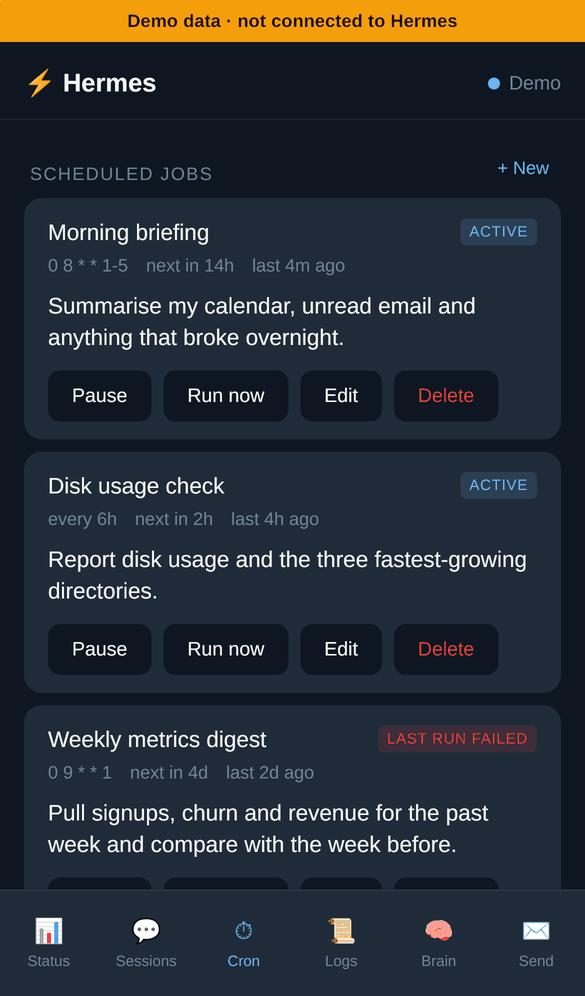
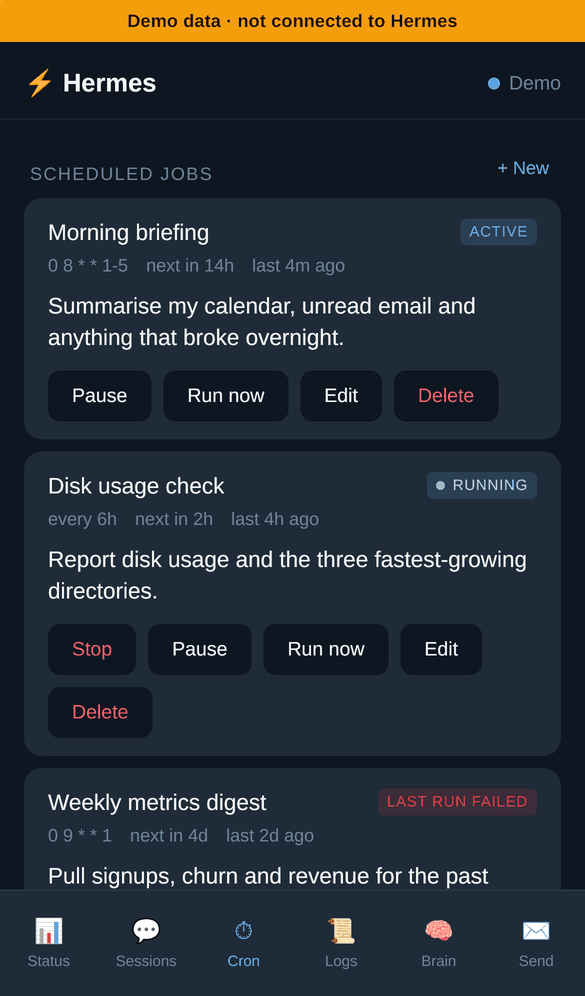
docs: prepare 0.4.0 (version, changelog, README, screenshots)
- Version 0.4.0 in plugin.yaml, manifest.json, web/package.json and
  CITATION.cff. requires_hermes stays >=0.22.4.
- CHANGELOG [0.4.0]: cron Stop and "Run missed jobs", English and
  Malay UI, readable API errors, /health auth_mode and capabilities,
  contract tests against real Hermes, and the new job form fix.
- README: Compatibility now says the plugin is tested by running Hermes
  v0.22.4 and v0.23.0 in CI; features list Stop, catch-up and languages.
- scripts/screenshots.py clicks tabs by position so labels can be in any
  language, adds a Malay Cron capture, and fails on page errors or
  horizontal overflow. Screenshots retaken.

diff --git a/scripts/screenshots.py b/scripts/screenshots.py
@@ -1,7 +1,9 @@
 # Capture README screenshots from the demo build (WebKit, iPhone 13).
 #   cd web && npm run build:demo && python3 -m http.server 3392 --bind 127.0.0.1 --directory ../dist-demo
 #   uv run --with playwright==1.58.0 --with pillow python scripts/screenshots.py http://127.0.0.1:3392 docs/screenshots
+# Optional third argument: comma-separated names to capture (e.g. "cron,usage").
 # Requests to anything other than the local server are blocked and reported.
+# Exits non-zero on page errors or horizontal overflow.
 import sys, io
 from pathlib import Path
 from playwright.sync_api import sync_playwright
@@ -10,9 +12,12 @@ from PIL import Image
 BASE = sys.argv[1]
 OUT = Path(sys.argv[2]); OUT.mkdir(parents=True, exist_ok=True)
 only = set(sys.argv[3].split(",")) if len(sys.argv) > 3 else None
-TABS = [("status", "Status"), ("sessions", "Sessions"), ("cron", "Cron"),
-        ("logs", "Logs"), ("brain", "Brain"), ("send", "Send")]
-external = []
+# Tabs in tab-bar order. Buttons are clicked by position, so the labels may be in any language.
+TABS = ["status", "sessions", "cron", "logs", "brain", "send"]
+# (theme, lang, tabs to capture, file suffix). The Malay pass shows one tab to document the translation.
+PASSES = [("light", "en", TABS + ["usage"], ""), ("dark", "en", TABS + ["usage"], ""),
+          ("light", "ms", ["cron"], "-ms")]
+external, problems = [], []
 
 
 def save(png, name):
@@ -23,9 +28,20 @@ def save(png, name):
     img.save(dest, optimize=True)
     print(dest.name, dest.stat().st_size)
 
+
+def open_tab(page, key):
+    page.locator(".tab-bar button").nth(TABS.index(key)).click()
+    page.wait_for_timeout(700)
+    if page.evaluate("document.documentElement.scrollWidth > document.documentElement.clientWidth"):
+        problems.append(f"horizontal overflow on {key}")
+
+
 with sync_playwright() as p:
     b = p.webkit.launch()
-    for theme in ("light", "dark"):
+    for theme, lang, shots, suffix in PASSES:
+        wanted = [s for s in shots if not only or s in only]
+        if not wanted:
+            continue
         ctx = b.new_context(**p.devices["iPhone 13"], color_scheme=theme)
         page = ctx.new_page()
         errors = []
@@ -37,22 +53,20 @@ with sync_playwright() as p:
             external.append(r.request.url)
             return r.abort()
         page.route("**/*", route)
-        page.goto(f"{BASE}/?theme={theme}", wait_until="networkidle")
+        page.goto(f"{BASE}/?theme={theme}&lang={lang}", wait_until="networkidle")
         page.wait_for_timeout(600)
-        for key, label in TABS:
-            if only and key not in only:
-                continue
-            page.locator(".tab-bar button", has_text=label).click()
-            page.wait_for_timeout(700)
-            save(page.screenshot(), f"{key}-{theme}.png")
-        if not only or "usage" in only:
-            page.locator(".tab-bar button", has_text="Status").click()
-            page.wait_for_timeout(700)
-            page.evaluate("document.querySelector('.section-title-row').scrollIntoView({block: 'start'}); window.scrollBy(0, -110)")
-            page.wait_for_timeout(500)
-            save(page.screenshot(), f"usage-{theme}.png")
-        if errors:
-            print("ERRORS", theme, errors)
+        for key in wanted:
+            if key == "usage":
+                open_tab(page, "status")
+                page.evaluate("document.querySelector('.section-title-row').scrollIntoView({block: 'start'}); window.scrollBy(0, -110)")
+                page.wait_for_timeout(500)
+            else:
+                open_tab(page, key)
+            save(page.screenshot(), f"{key}{suffix}-{theme}.png")
+        problems += [f"{theme}/{lang}: {e}" for e in errors]
         ctx.close()
     b.close()
 print("blocked external requests:", sorted(set(external)))
+if problems:
+    print("PROBLEMS", *problems, sep="\n  ")
+    sys.exit(1)

diff --git a/README.md b/README.md
@@ -17,17 +17,18 @@ It ships as a Hermes **dashboard plugin** (backend routes under `/api/plugins/te
   </tr>
 </table>
 
-<sub>Screenshots use the built-in <a href="#demo-mode">demo mode</a> (sample data, iPhone 13 in WebKit, Telegram-style day and night palettes). More in <a href="docs/screenshots/">docs/screenshots</a>.</sub>
+<sub>Screenshots use the built-in <a href="#demo-mode">demo mode</a> (sample data, iPhone 13 in WebKit, Telegram-style day and night palettes). More in <a href="docs/screenshots/">docs/screenshots</a>, including the <a href="docs/screenshots/cron-ms-light.png">Malay UI</a>.</sub>
 
 ## Features
 
 - **Status**: CPU, memory, disk, load and uptime; session and cron counts; token and cost totals for today, 7 days, 30 days or all time, with the most expensive sessions.
 - **Push alerts** (configured from the Status tab): a Telegram DM when a cron run fails, when `errors.log` gets new errors (throttled, off by default) or when the day's estimated spend crosses a threshold.
 - **Sessions**: recent sessions with source, message count, tokens and cost; open one to read its messages.
-- **Cron**: create, edit, pause, resume, run now and delete agent cron jobs. Failed last runs are flagged.
+- **Cron**: create, edit, pause, resume, run now and delete agent cron jobs. Failed last runs are flagged. On Hermes v0.23.0 or later, stop a job that is running and choose per job whether missed runs are caught up ("Run missed jobs").
 - **Logs**: tail `agent.log`, `errors.log` or `gateway.log`, filtered by level, with live refresh.
 - **Brain**: search installed skills and read `SKILL.md`, read the agent's `MEMORY.md` and `USER.md`.
 - **Post to bot chat**: have the bot post a message into your DM. See [limitations](#known-limitations): Hermes does not act on it.
+- **English and Malay.** The app uses your Telegram language when it is Malay and English otherwise; an EN | BM switch at the bottom of the Status tab overrides it. Adding a language is one JSON file in `web/src/i18n/`.
 - Follows your Telegram light or dark theme, uses Telegram haptics.
 
 ## How it works
@@ -70,14 +71,17 @@ This panel controls an AI agent, so the login path is strict. The full review, w
 
 ## Compatibility
 
-Checked against Hermes Agent commit [`81a5543`](https://github.com/NousResearch/hermes-agent/commit/81a55437f3f31a9f12a30c53b6c5d49d420898aa) (tag `v0.22.4+canary.20261022T070155Z`, 21 Oct 2026) **by reading its source**, not by running it. Verified there:
+**Tested by running Hermes v0.22.4 and v0.23.0 in CI.** For each release listed in [`compat/hermes-versions.json`](compat/hermes-versions.json), the `hermes-contract` job installs that Hermes, links the plugin into a temporary Hermes home with synthetic credentials, and calls `/health`, login, status, sessions, cron (including stop and catch-up) and logs through the real dashboard app (`tests/contract/`). The plugin declares `requires_hermes: ">=0.22.4"`.
+
+What the plugin uses from Hermes:
 
 - Dashboard plugins are discovered at `~/.hermes/plugins/<name>/dashboard/manifest.json`; the `api` file is imported and its `router` mounted at `/api/plugins/<name>/`.
 - User plugins' backends load only when the plugin name is in `plugins.enabled` (Hermes security change, see setup).
 - The session header is `X-Hermes-Session-Token`; `/api/*` is gated except for paths in `hermes_cli.web_server._PUBLIC_API_PATHS`.
-- Data sources the endpoints use: `hermes_state.SessionDB` (`list_sessions_rich`, `session_count`, `get_messages`), `cron.jobs` (`list_jobs`, `create_job`, `update_job`, `remove_job`, `pause_job`, `resume_job`, `trigger_job`), and `~/.hermes/logs/{agent,errors,gateway}.log`.
+- Data sources the endpoints use: `hermes_state.SessionDB` (`list_sessions_rich`, `session_count`, `get_messages`), `cron.jobs` (`list_jobs`, `create_job`, `update_job`, `remove_job`, `pause_job`, `resume_job`, `trigger_job`, and `cancel_job_run` when present), and `~/.hermes/logs/{agent,errors,gateway}.log`.
+- Optional features are detected by probing Hermes, not by version: `GET /api/plugins/telegram-app/health` lists them under `capabilities` (`cron_cancel`, `cron_catch_up`), and the app hides Stop and "Run missed jobs" when they are missing.
 
-Requirements and caveats from that check:
+Requirements and caveats:
 
 - The dashboard must run in its default **loopback token mode** (bound to `127.0.0.1`). If you set `dashboard.public_url` or bind publicly, Hermes switches to its cookie/OAuth gate and this plugin's token login will not work.
 - `plugins.isolation: host` (plugins in a separate process) is not supported; the default `in_process` is.
@@ -172,7 +176,7 @@ cd web
 npm ci
 npm run build:demo        # writes ../dist-demo/ (never ../dist/)
 python3 -m http.server 3392 --bind 127.0.0.1 --directory ../dist-demo
-# open http://127.0.0.1:3392/?theme=light  (or ?theme=dark)
+# open http://127.0.0.1:3392/?theme=light  (or ?theme=dark; add &lang=ms for Malay)
 ```
 
 On the Vite dev server, `npm run dev` and open `/?demo=1`. A normal `npm run build` compiles demo mode out completely; `npm run check:no-demo` (run in CI) fails if any demo code reaches `dist/`. The README screenshots are made with `scripts/screenshots.py` from the demo build.
@@ -241,7 +245,8 @@ The evidence that it works is meant to be checkable:
 
 - The test suite, run with `python -m pytest` and `cd web && npm test`.
 - CI on Python 3.11 and 3.12, and Node 22 for every pull request.
-- 2 tagged releases, with notes in [CHANGELOG.md](CHANGELOG.md).
+- Contract tests in CI that install real Hermes v0.22.4 and v0.23.0 and call the plugin through the Hermes dashboard app.
+- 3 tagged releases, with notes in [CHANGELOG.md](CHANGELOG.md).
 
 ## License
 

diff --git a/CHANGELOG.md b/CHANGELOG.md
@@ -5,18 +5,43 @@ All notable changes to this project are documented here. The format follows
 
 ## [Unreleased]
 
+## [0.4.0] - 2026-11-06
+
+Tested by running Hermes v0.22.4 and v0.23.0 in CI. `requires_hermes` stays `>=0.22.4`.
+
 ### Added
 
+- **Stop a running cron job.** A job that is running shows a "running" badge and, on Hermes v0.23.0 or later, a
+  Stop button with a confirmation. The backend route is `POST /cron/{id}/cancel`; on older Hermes it answers `501`
+  with code `unsupported` and the button is hidden.
+- **"Run missed jobs" per job** (`catch_up`). The job form shows the switch when Hermes stores the setting per job.
+  It is sent only when changed, so saving a job never pins the global default. On a Hermes without it the field is
+  dropped and the response carries a `catch_up_unsupported` warning.
+- Each job in `GET /cron` has a boolean `running`.
+- **English and Malay.** Every UI string lives in `web/src/i18n/{en,ms}.json`. The language is the saved choice,
+  then the Telegram `language_code`, then English; an EN | BM switch sits at the bottom of the Status tab. Dates,
+  numbers and relative times follow the language. No new package: a small `t()` helper does the lookup.
+- API errors are shown as a readable sentence in the current language, with the HTTP status and the backend's
+  detail. Sign-in refusals stay generic.
+- `GET /health` reports `auth_mode` (`legacy-public-paths` or `unavailable`, checked on each request),
+  `hermes_version` and `capabilities` (`cron_cancel`, `cron_catch_up`). Features are detected by probing Hermes,
+  not by version number.
 - Contract tests that install real Hermes releases and call the plugin through the Hermes dashboard app
   (`tests/contract/`). The releases under test are listed in `compat/hermes-versions.json`; CI runs one
   `hermes-contract` job per release (currently v0.22.4 and v0.23.0). Without Hermes installed the tests are skipped.
 
 ### Changed
 
+- Hermes v0.23.0 added a bearer-token seam for plugin routes. It was evaluated and not adopted for login, for the
+  reasons in [decision 0005](docs/decisions/0005-login-stays-on-public-paths.md). Login checks are unchanged.
 - The backend is split into one module per tab (`plugin/dashboard/routes_*.py`). Every read of Hermes internals
   (public paths, the dashboard session token, `get_secret`, the Hermes home directory) now lives in
   `plugin/dashboard/hermes_compat.py`, so a Hermes upgrade that renames one of them breaks a single file.
-  `plugin_api.py` only assembles the router. No change to endpoints or behaviour.
+  `plugin_api.py` only assembles the router.
+
+### Fixed
+
+- In the Cron tab, the new job form opened with its Cancel and Create buttons disabled.
 
 ## [0.3.0] - 2026-10-23
 
